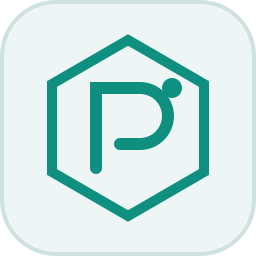
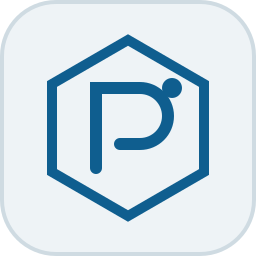
Shift the palette from green to blue

Changed region(s): [[0.1562, 0.125, 0.8438, 0.875]]

diff --git a/renderer/style.css b/renderer/style.css
@@ -1,14 +1,15 @@
 :root {
-  --bg: #061114;
-  --panel: #0a1a1e;
-  --panel-2: #0d2328;
-  --panel-3: #102b31;
-  --line: #1b3b42;
-  --line-soft: #142f35;
-  --text: #d9f1ee;
-  --muted: #7e9ea3;
-  --teal: #3dd6c3;
-  --teal-soft: rgba(61, 214, 195, 0.14);
+  --bg: #060a14;
+  --panel: #0a101e;
+  --panel-2: #0d1528;
+  --panel-3: #101a31;
+  --line: #1b2742;
+  --line-soft: #141e35;
+  --text: #d9e8f1;
+  --muted: #7e8ba3;
+  --accent: #3d9cd6;
+  --accent-soft: rgba(61, 156, 214, 0.14);
+  --accent-rgb: 61, 156, 214;
   --amber: #f0b35a;
   --amber-soft: rgba(240, 179, 90, 0.14);
   --red: #ef7d7d;
@@ -23,23 +24,24 @@
 
 @media (prefers-color-scheme: light) {
   :root {
-    --bg: #f4f8f8;
+    --bg: #f4f6f8;
     --panel: #ffffff;
-    --panel-2: #eef6f5;
-    --panel-3: #e5f1ef;
-    --line: #cfe2df;
-    --line-soft: #deece9;
-    --text: #102a2c;
-    --muted: #5f7d7f;
-    --teal: #0f8f80;
-    --teal-soft: rgba(15, 143, 128, 0.11);
+    --panel-2: #eef3f6;
+    --panel-3: #e5edf1;
+    --line: #cfdbe2;
+    --line-soft: #dee8ec;
+    --text: #101c2c;
+    --muted: #5f6d7f;
+    --accent: #0f5e8f;
+    --accent-soft: rgba(15, 94, 143, 0.11);
+    --accent-rgb: 15, 94, 143;
     --amber: #9a650d;
     --amber-soft: rgba(154, 101, 13, 0.11);
     --red: #b53c3c;
     --red-soft: rgba(181, 60, 60, 0.1);
     --blue: #256a9f;
     --blue-soft: rgba(37, 106, 159, 0.1);
-    --shadow: 0 16px 45px rgba(25, 65, 70, 0.08);
+    --shadow: 0 16px 45px rgba(25, 45, 70, 0.08);
     color-scheme: light;
   }
 }
@@ -80,7 +82,7 @@ button {
 .sidebar {
   border-right: 1px solid var(--line-soft);
   background:
-    radial-gradient(circle at 10% 0%, rgba(61, 214, 195, 0.08), transparent 34%),
+    radial-gradient(circle at 10% 0%, rgba(var(--accent-rgb), 0.08), transparent 34%),
     var(--panel);
   padding: 24px 18px 20px;
   display: flex;
@@ -98,13 +100,13 @@ button {
 .mark {
   width: 42px;
   height: 42px;
-  color: var(--teal);
+  color: var(--accent);
   border: 1px solid var(--line);
   border-radius: 13px;
   background: var(--panel-2);
   display: grid;
   place-items: center;
-  box-shadow: inset 0 0 22px rgba(61, 214, 195, 0.08);
+  box-shadow: inset 0 0 22px rgba(var(--accent-rgb), 0.08);
 }
 
 .mark svg {
@@ -146,9 +148,9 @@ button {
 }
 
 .nav-item.active {
-  background: var(--teal-soft);
-  border-color: rgba(61, 214, 195, 0.22);
-  color: var(--teal);
+  background: var(--accent-soft);
+  border-color: rgba(var(--accent-rgb), 0.22);
+  color: var(--accent);
 }
 
 .sidebar-foot {
@@ -219,8 +221,8 @@ button.subtle {
 }
 
 button.primary {
-  background: var(--teal);
-  color: #042022;
+  background: var(--accent);
+  color: #041122;
   font-weight: 650;
 }
 
@@ -329,7 +331,7 @@ button:disabled {
 }
 
 .stat.good .value {
-  color: var(--teal);
+  color: var(--accent);
 }
 
 .stat.warn .value {
@@ -370,9 +372,9 @@ button:disabled {
 }
 
 .pill.good {
-  color: var(--teal);
-  border-color: rgba(61, 214, 195, 0.3);
-  background: var(--teal-soft);
+  color: var(--accent);
+  border-color: rgba(var(--accent-rgb), 0.3);
+  background: var(--accent-soft);
 }
 
 .pill.warn {
@@ -436,7 +438,7 @@ tr:last-child td {
 }
 
 .link {
-  color: var(--teal);
+  color: var(--accent);
   text-decoration: none;
   cursor: pointer;
 }
@@ -667,8 +669,8 @@ tr:last-child td {
 }
 
 .console {
-  background: #041013;
-  color: #b7ded7;
+  background: #040813;
+  color: #b7d2de;
   border: 1px solid var(--line);
   border-radius: 12px;
   min-height: 260px;
@@ -730,7 +732,7 @@ select option {
 
 input:focus,
 select:focus {
-  border-color: var(--teal);
+  border-color: var(--accent);
 }
 
 .root-edit {

diff --git a/electron/main.js b/electron/main.js
@@ -112,7 +112,7 @@ function createWindow() {
     height: 860,
     minWidth: 980,
     minHeight: 640,
-    backgroundColor: "#071417",
+    backgroundColor: "#070c17",
     title: "Release Board",
     icon: iconPath(),
     show: false,

diff --git a/lib/release_board/release.py b/lib/release_board/release.py
@@ -290,7 +290,7 @@ def _prepare_tree(root: Path, series: str, revision: int, config: dict[str, Any]
         "remote": git_out(["remote", "get-url", "origin"], root),
         "clean": not git_out(["status", "--porcelain"], root),
         "builtAt": now_iso(),
-        "builder": "release-board/0.4.7",
+        "builder": "release-board/0.5.0",
     }
     write_json_atomic(src / "debian" / "provenance.json", provenance, 0o644)
 

diff --git a/lib/release_board/launchpad.py b/lib/release_board/launchpad.py
@@ -13,7 +13,7 @@ from .config import profile_for, roots
 from .util import cache_dir, now_iso, read_json, write_json_atomic
 
 API = "https://api.launchpad.net/1.0"
-USER_AGENT = "release-board/0.4.7 (+local read-only monitor)"
+USER_AGENT = "release-board/0.5.0 (+local read-only monitor)"
 
 
 def _fetch(url: str, timeout: int = 30) -> dict[str, Any]:

diff --git a/lib/release_board/__init__.py b/lib/release_board/__init__.py
@@ -1,3 +1,3 @@
 """Release Board core library."""
 
-__version__ = "0.4.7"
+__version__ = "0.5.0"
